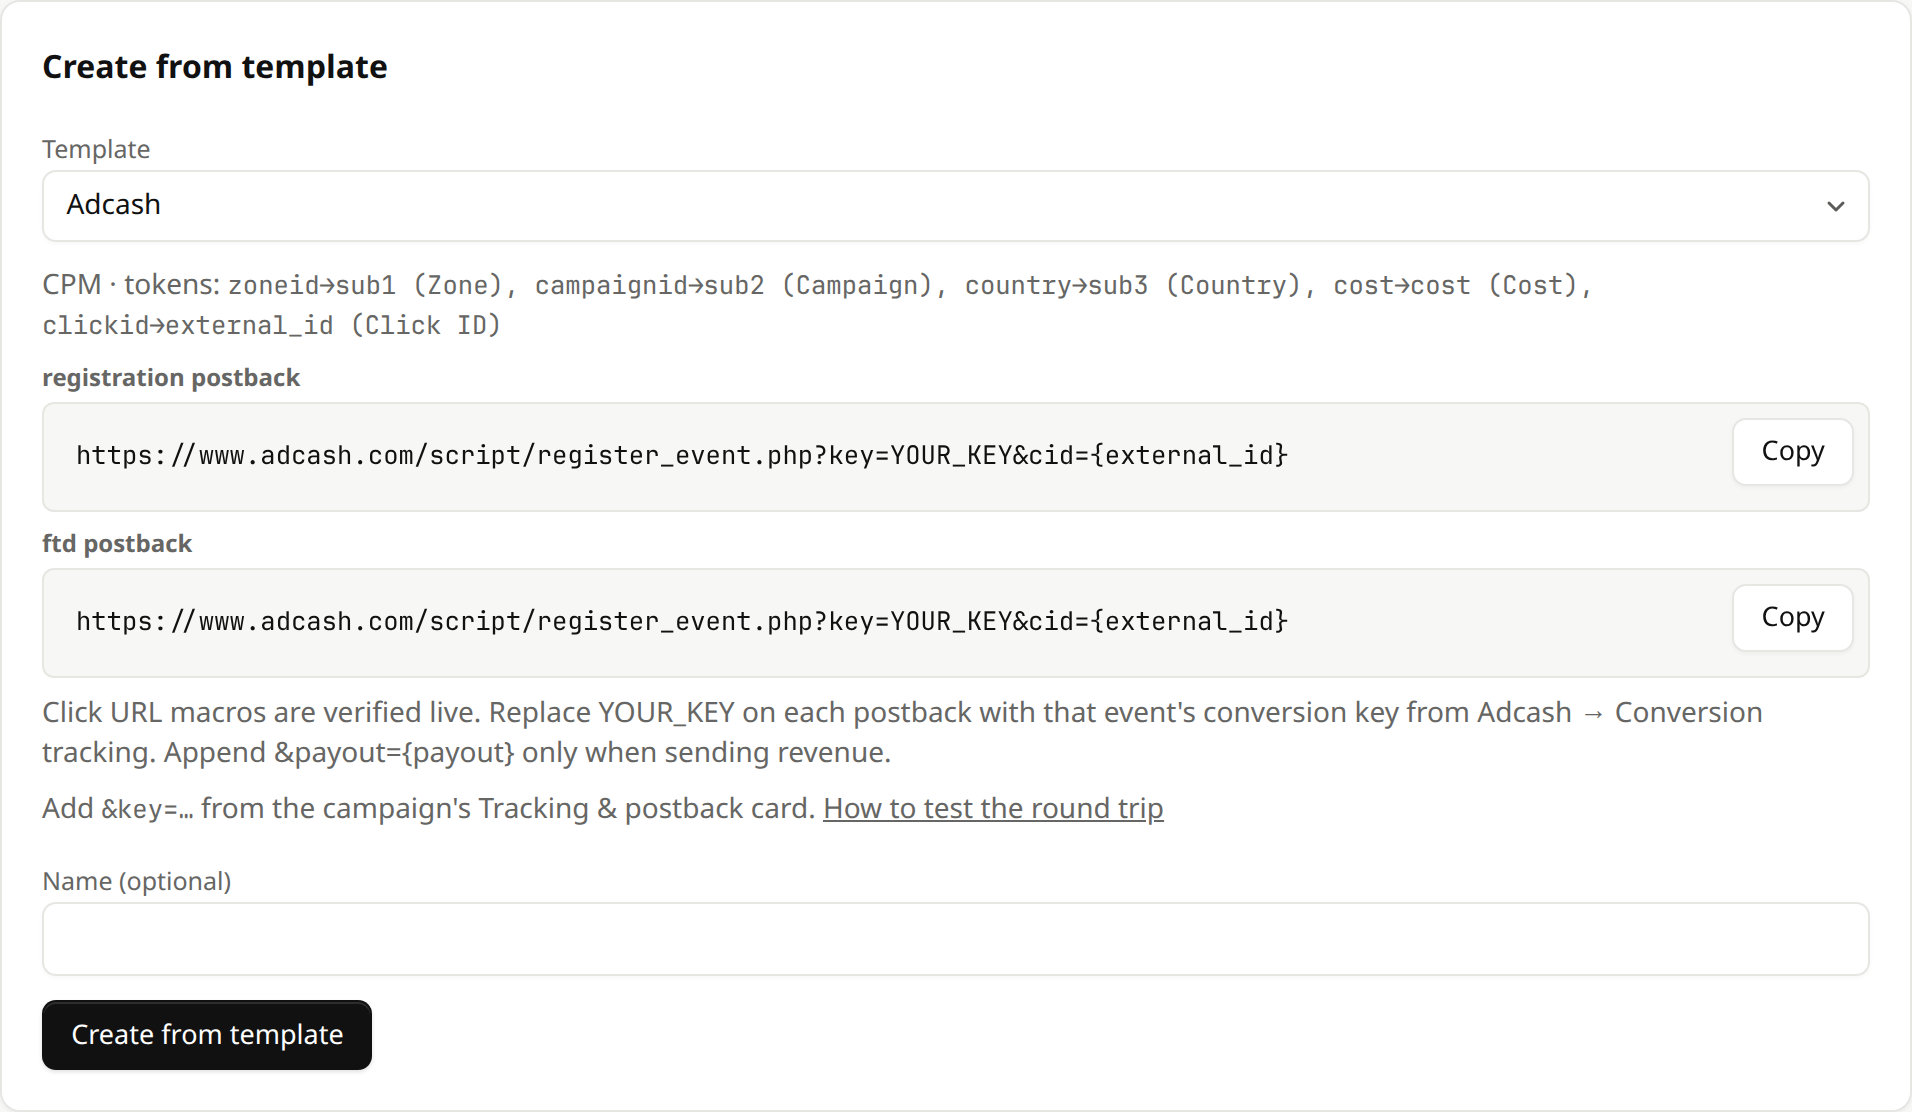
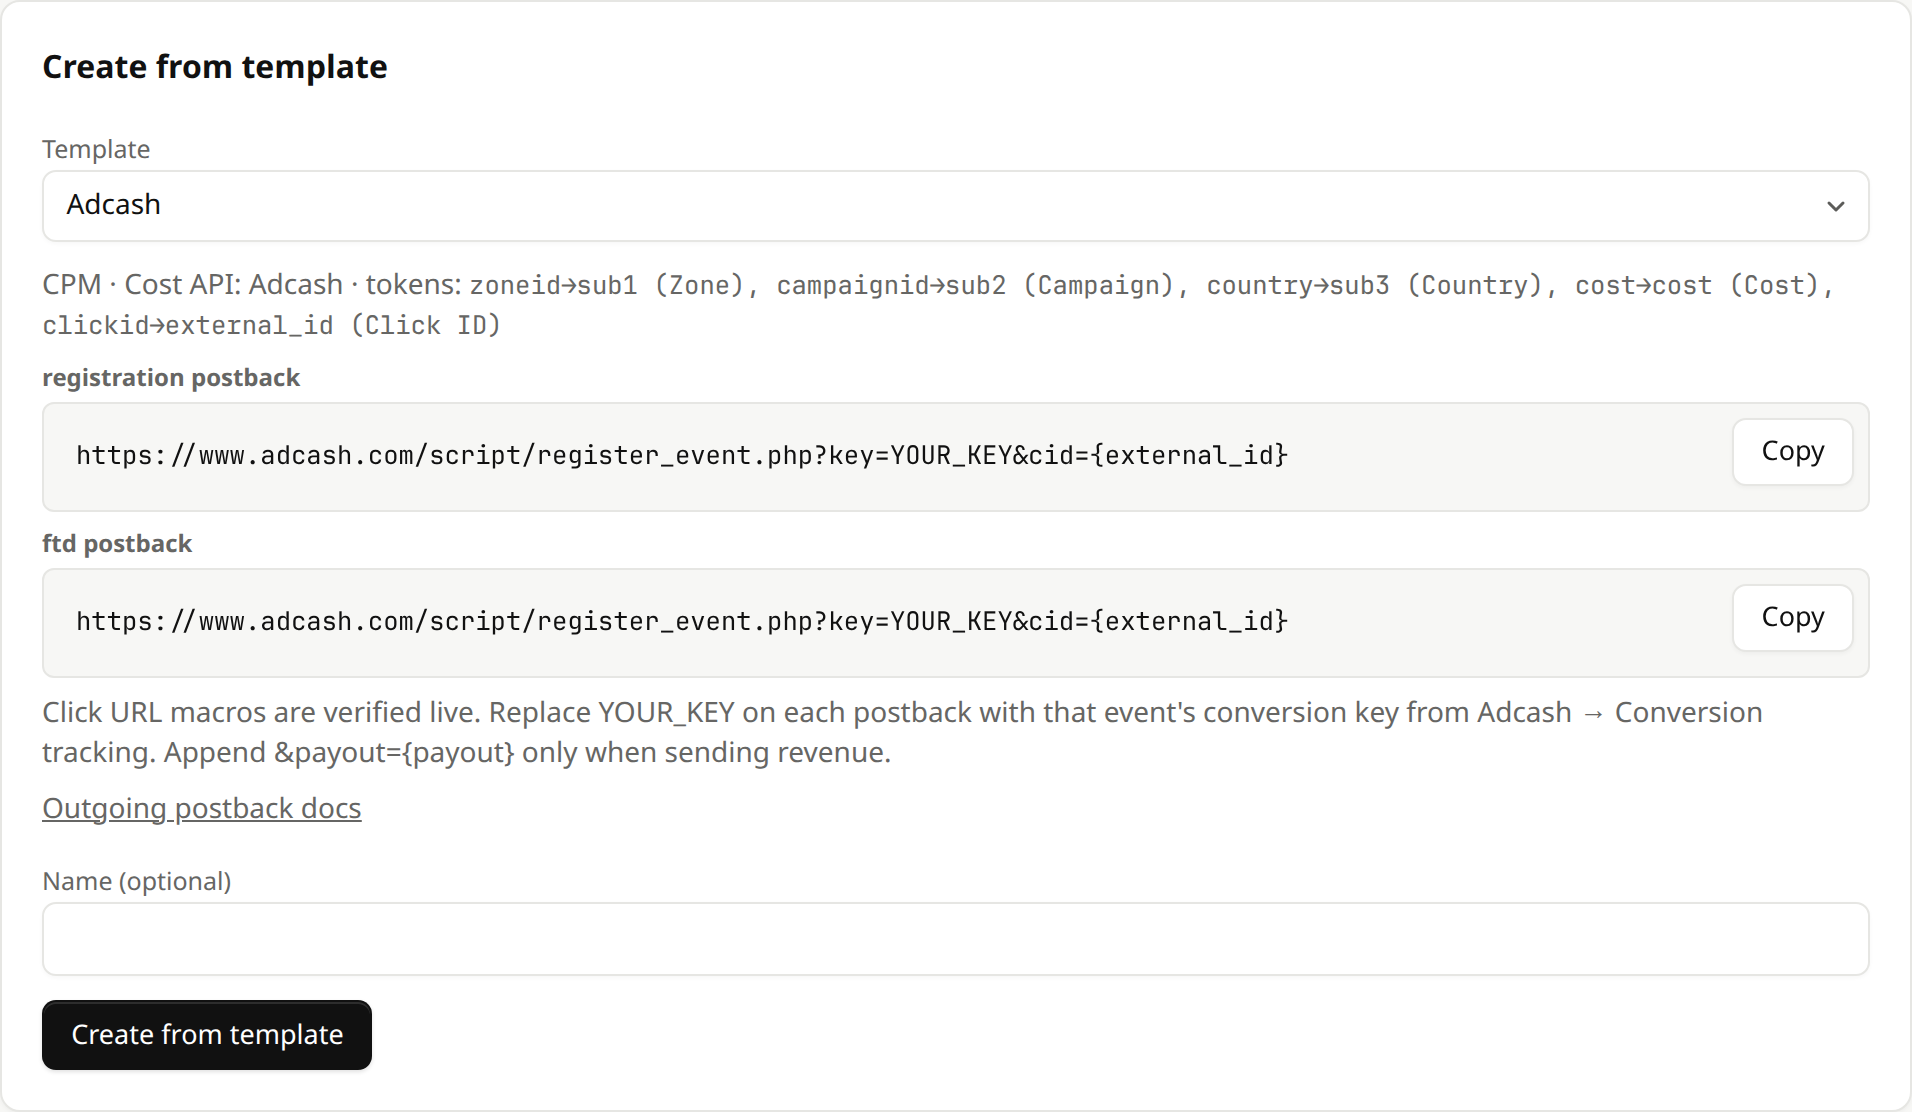
Align the Adcash picker and PropellerAds migration with live behavior.
The template picker no longer tells people to paste Capve's incoming key into an outgoing postback, and migration 0037 drops mixed-case bannerid tokens and case-insensitive country duplicates the same way the runtime does.

Changed region(s): [[0.0617, 0.2446, 0.9566, 0.2752], [0.0, 0.7032, 0.6172, 0.7644]]

diff --git a/tests/sources.test.ts b/tests/sources.test.ts
@@ -9,6 +9,7 @@ import {
   applySourceTokens,
   normalizePropellerTokens,
   parseTokens,
+  propellerTokenConflict,
   SOURCE_TEMPLATES,
   trackingUrlWithMacros,
   type SourceToken,
@@ -281,6 +282,15 @@ describe("traffic source templates, tokens and cost", () => {
       { param: "country", name: "Country", slot: "sub9", macro: "{country}" },
     ]);
 
+    const mixedCountry: SourceToken[] = [
+      { param: "GEO", name: "Geo code", slot: "sub4", macro: "${Geo}" },
+      { param: "Country", name: "Country", slot: "sub9", macro: "{country}" },
+    ];
+    expect(normalizePropellerTokens(mixedCountry)).toEqual([
+      { param: "Country", name: "Country", slot: "sub9", macro: "{country}" },
+    ]);
+    expect(propellerTokenConflict(mixedCountry)).toBe("Duplicate token param: country");
+
     const inherited: SourceToken[] = [
       { param: "clickid", name: "Click ID", slot: "external_id", macro: "constructor" },
       { param: "zoneid", name: "Zone", slot: "sub1", macro: "toString" },
@@ -421,6 +431,37 @@ describe("traffic source templates, tokens and cost", () => {
       .bind(bothTokens, both.id)
       .run();
 
+    const { traffic_source: customBanner } = await api<{ traffic_source: { id: string } }>(
+      "POST",
+      "/api/sources/from-template",
+      { template_id: "propellerads", name: "PropellerAds custom banner" },
+      201,
+    );
+    const customBannerTokens = JSON.stringify([
+      { param: "clickid", name: "Click ID", slot: "external_id", macro: "${SUBID}" },
+      { param: "BannerId", name: "Banner code", slot: "sub8", macro: "${BannerId}" },
+    ]);
+    const customBannerBefore = (await settingsRow(customBanner.id))!;
+    await env.DB.prepare(
+      "UPDATE traffic_source_settings SET tokens = ?, updated_at = ? WHERE traffic_source_id = ?",
+    )
+      .bind(customBannerTokens, customBannerBefore.updated_at, customBanner.id)
+      .run();
+
+    const { traffic_source: spacedCountry } = await api<{ traffic_source: { id: string } }>(
+      "POST",
+      "/api/sources/from-template",
+      { template_id: "propellerads", name: "PropellerAds spaced country" },
+      201,
+    );
+    const spacedCountryTokens = `[
+      { "param": "GEO", "name": "Geo code", "slot": "sub4", "macro": "\${Geo}" },
+      { "param": "Country", "name": "Country", "slot": "sub9", "macro": "{country}" }
+    ]`;
+    await env.DB.prepare("UPDATE traffic_source_settings SET tokens = ? WHERE traffic_source_id = ?")
+      .bind(spacedCountryTokens, spacedCountry.id)
+      .run();
+
     const { source: adcash } = await adcashCampaign();
     const adcashTokens = JSON.stringify([
       { param: "zoneid", name: "Zone", slot: "sub1", macro: "${ZONEID}", kind: "zone" },
@@ -489,6 +530,21 @@ describe("traffic source templates, tokens and cost", () => {
     const adcashAfter = (await settingsRow(adcash.id))!;
     expect(adcashAfter.tokens).toBe(adcashTokens);
     expect(adcashAfter.updated_at).toBe(111);
+
+    const customBannerStored = (await settingsRow(customBanner.id))!;
+    expect(JSON.parse(customBannerStored.tokens).map((token: { param: string }) => token.param)).toEqual([
+      "clickid",
+    ]);
+    expect(customBannerStored.updated_at).toBe(customBannerBefore.updated_at);
+
+    const spacedStored = JSON.parse((await settingsRow(spacedCountry.id))!.tokens) as Array<{
+      param: string;
+      name: string;
+      slot: string;
+    }>;
+    expect(spacedStored).toEqual([
+      { param: "Country", name: "Country", slot: "sub9", macro: "{country}" },
+    ]);
 
     const cleanedLast = (await settingsRow(bannerLast.id))!;
     expect(JSON.parse(cleanedLast.tokens).map((token: { param: string }) => token.param)).toEqual([

diff --git a/src/components/SourceTemplates.tsx b/src/components/SourceTemplates.tsx
@@ -27,6 +27,7 @@ function postbackLabel(event: string | null) {
 /** "Create from template" for traffic sources (Adcash, PropellerAds, ...). */
 export function SourceTemplatePicker({ onCreated }: { onCreated: () => void }) {
   const [templates, setTemplates] = useState<SourceTemplate[]>([]);
+  const [costProviders, setCostProviders] = useState<Array<{ id: string; name: string }>>([]);
   const [templateId, setTemplateId] = useState("");
   const [name, setName] = useState("");
   const [busy, setBusy] = useState(false);
@@ -36,11 +37,17 @@ export function SourceTemplatePicker({ onCreated }: { onCreated: () => void }) {
   useEffect(() => {
     sourcesApi
       .templates()
-      .then((data) => setTemplates(data.traffic_sources))
+      .then((data) => {
+        setTemplates(data.traffic_sources);
+        setCostProviders(data.cost_providers);
+      })
       .catch((err) => setError(message(err)));
   }, []);
 
   const template = templates.find((t) => t.id === templateId);
+  const costApiName = template?.cost_api
+    ? costProviders.find((provider) => provider.id === template.cost_api)?.name ?? template.cost_api
+    : null;
   const previewPostbacks = template
     ? template.postbacks?.length
       ? template.postbacks
@@ -93,7 +100,9 @@ export function SourceTemplatePicker({ onCreated }: { onCreated: () => void }) {
         {template && (
           <div className="space-y-2 text-sm">
             <p className="text-[var(--velo-muted)]">
-              {template.cost_type.toUpperCase()} · tokens:{" "}
+              {template.cost_type.toUpperCase()}
+              {costApiName ? ` · Cost API: ${costApiName}` : ""}
+              {" · tokens: "}
               <span className="mono">
                 {template.tokens.map((t) => `${t.param}→${t.slot} (${t.name})`).join(", ")}
               </span>
@@ -105,9 +114,8 @@ export function SourceTemplatePicker({ onCreated }: { onCreated: () => void }) {
             ))}
             {template.notes && <p className="text-[var(--velo-muted)]">{template.notes}</p>}
             <p className="text-[var(--velo-muted)]">
-              Add <span className="mono">&amp;key=…</span> from the campaign&apos;s Tracking &amp; postback card.{" "}
-              <a className="underline" href="/docs/networks" target="_blank" rel="noreferrer">
-                How to test the round trip
+              <a className="underline" href="/docs/postback" target="_blank" rel="noreferrer">
+                Outgoing postback docs
               </a>
             </p>
             {!template.verified && (

diff --git a/worker/lib/source-templates.ts b/worker/lib/source-templates.ts
@@ -362,13 +362,14 @@ export function normalizePropellerTokens(tokens: SourceToken[]): SourceToken[] {
   const chosen = new Map<string, RewrittenPropellerToken>();
   const order: string[] = [];
   for (const item of rewritten) {
-    const prev = chosen.get(item.token.param);
+    const key = item.token.param.toLowerCase();
+    const prev = chosen.get(key);
     if (!prev) {
-      chosen.set(item.token.param, item);
-      order.push(item.token.param);
+      chosen.set(key, item);
+      order.push(key);
       continue;
     }
-    if (prev.renamedFromGeo && !item.renamedFromGeo) chosen.set(item.token.param, item);
+    if (prev.renamedFromGeo && !item.renamedFromGeo) chosen.set(key, item);
   }
   return order.map((param) => chosen.get(param)!.token);
 }
@@ -379,8 +380,9 @@ export function propellerTokenConflict(tokens: SourceToken[]): string | null {
   for (const token of tokens) {
     const next = rewritePropellerToken(token);
     if (!next) continue;
-    if (params.has(next.token.param)) return `Duplicate token param: ${next.token.param}`;
-    params.add(next.token.param);
+    const key = next.token.param.toLowerCase();
+    if (params.has(key)) return `Duplicate token param: ${key}`;
+    params.add(key);
   }
   return null;
 }
